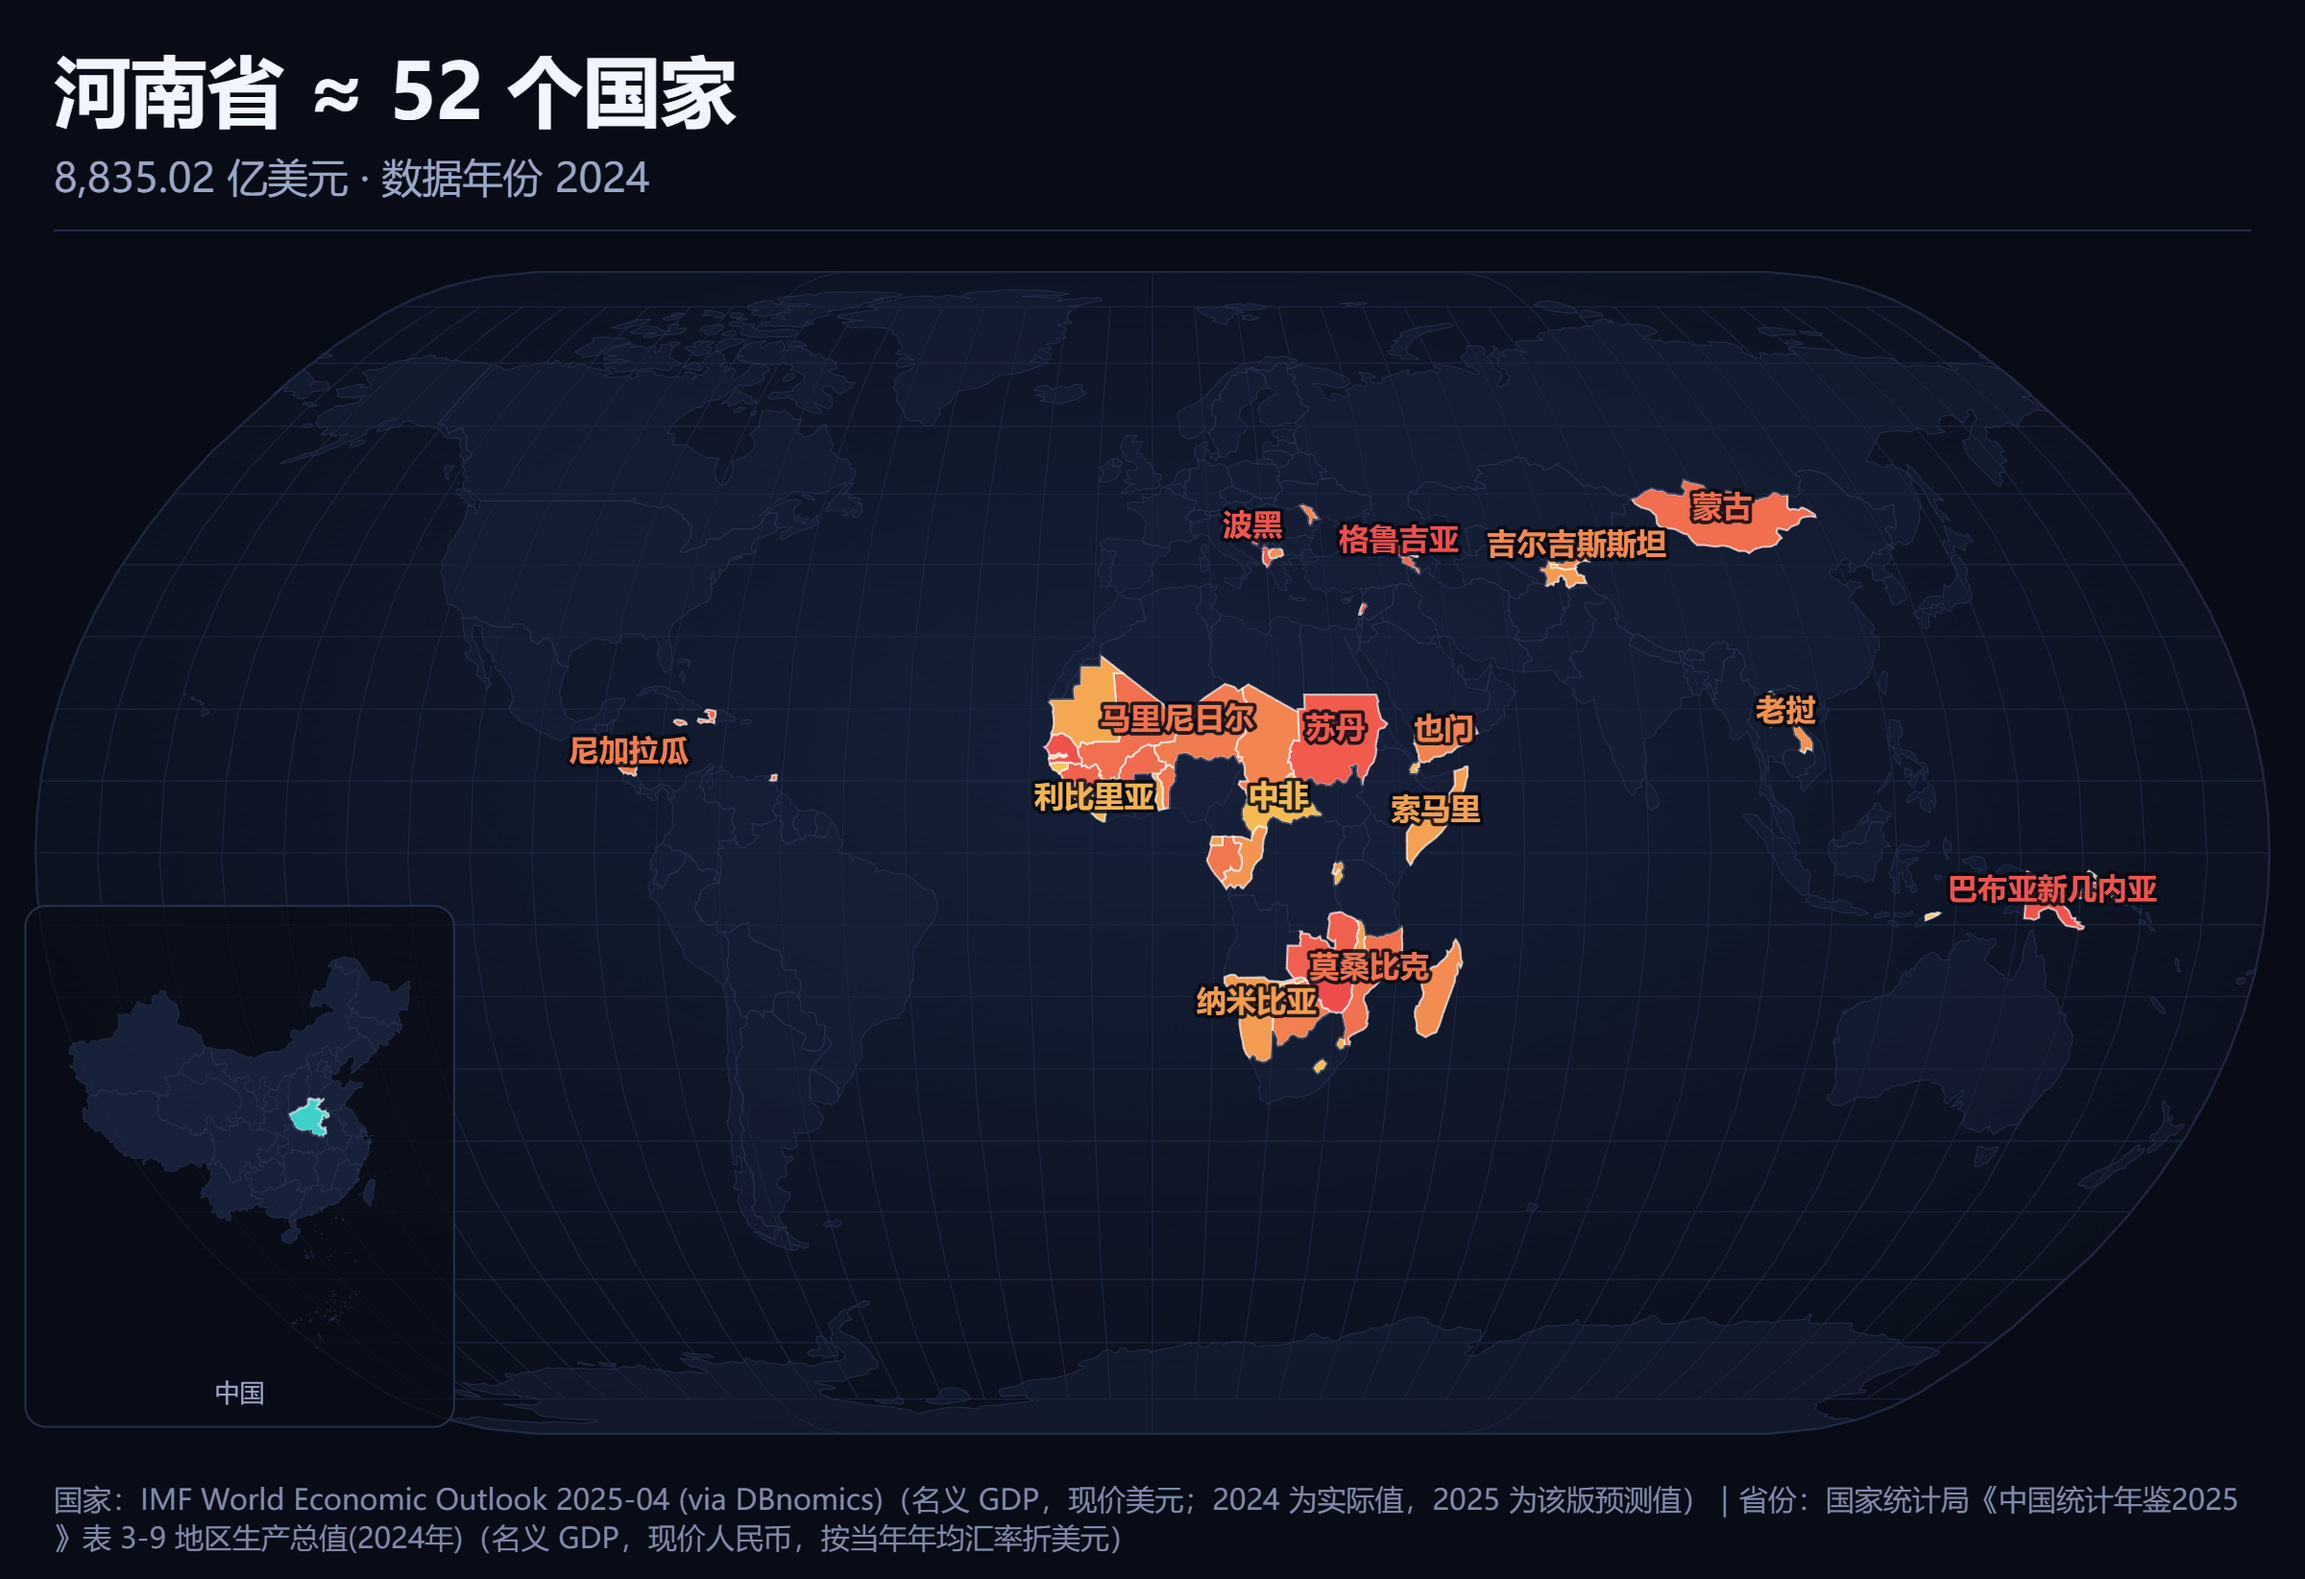
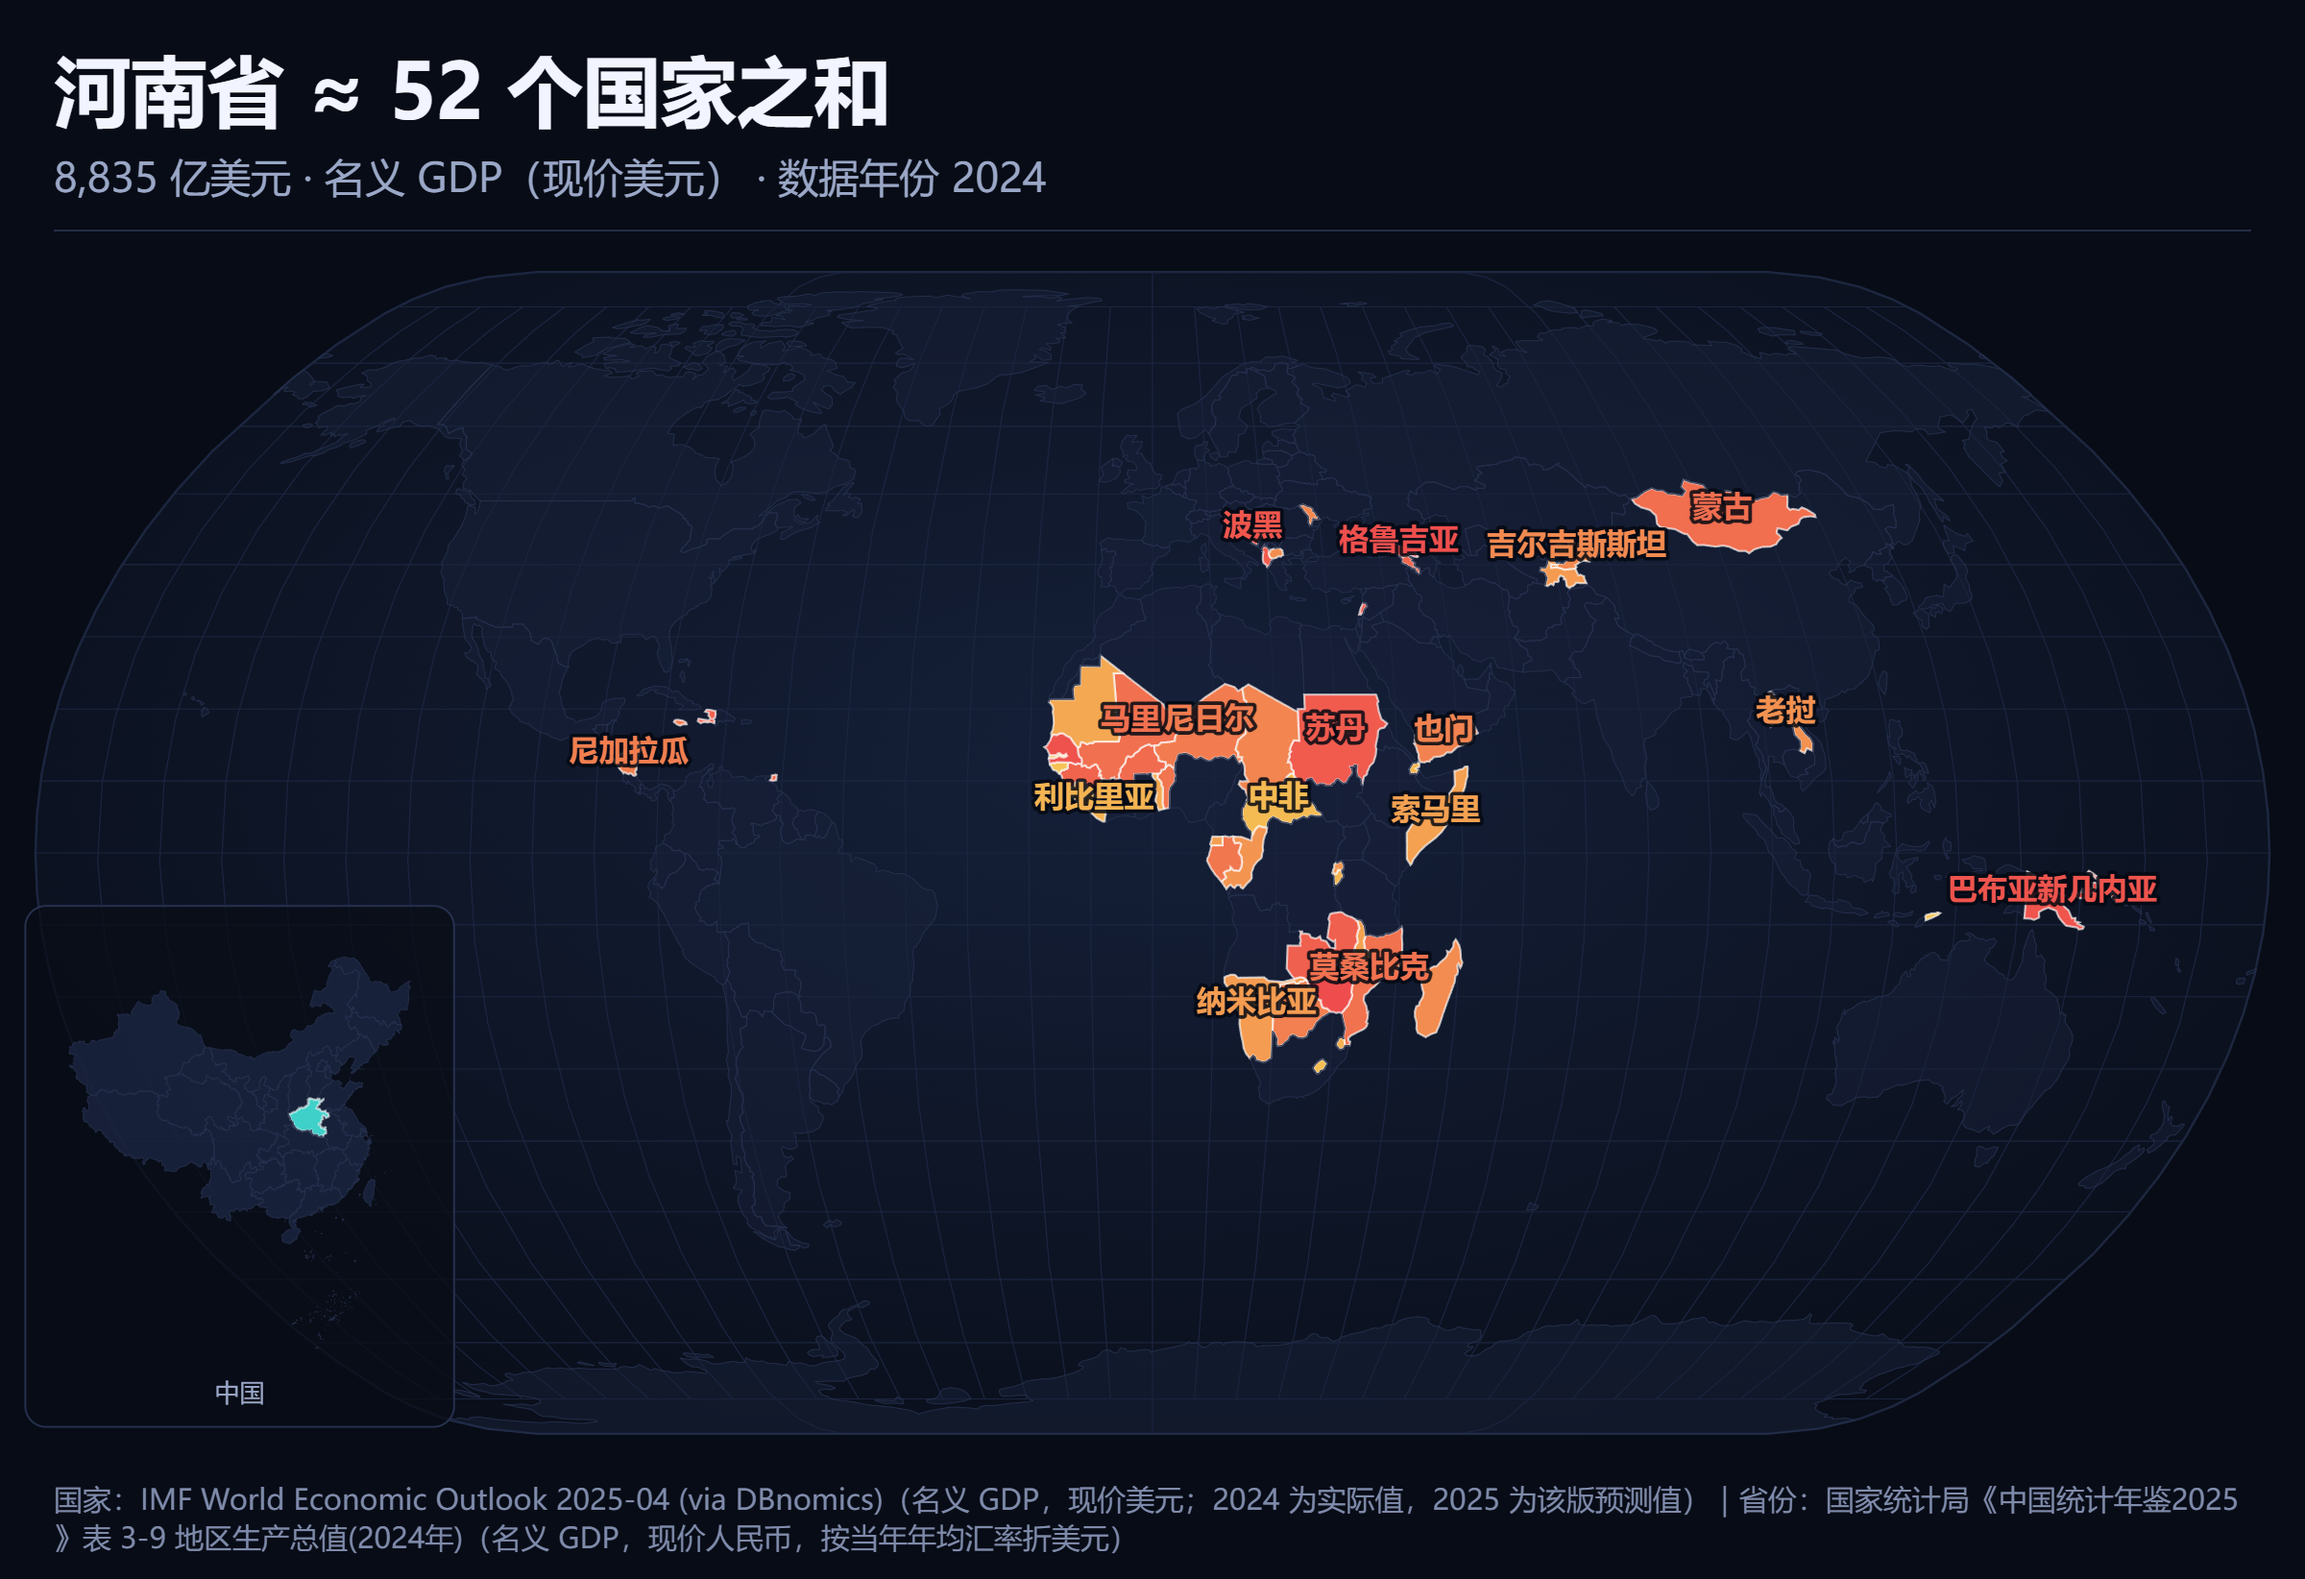
docs: describe the metric based comparison and refresh previews

Changed region(s): [[0.3125, 0.031, 0.4688, 0.1241], [0.0625, 0.0931, 0.3125, 0.1241]]

diff --git a/README.md b/README.md
@@ -10,10 +10,19 @@
 
 | 模式 | 输入 | 输出 |
 | --- | --- | --- |
-| 地方 → 国家 | 选 1~N 个中国省级地区 | 地图上高亮等价的国家集合，并给出「≈ N 个国家」 |
-| 国家 → 地方 | 选 1 个国家 | 中国地图上高亮等价省份组合，并附南海诸岛 |
+| 地方 → 世界 | 选 1~N 个中国省级地区 | 地图上高亮等价的对照对象，并给出「≈ N 个国家」 |
+| 世界 → 地方 | 选 1 个国家 | 中国地图上高亮等价省份组合，并附南海诸岛 |
 
-**四种对照方式**（同一个目标，不同说法）：
+**四个指标**（同一个地方，可以比不同的东西）：
+
+| 指标 | 河南省的结果 | 广东省的结果 |
+| --- | --- | --- |
+| 总 GDP | ≈ 52 个国家之和（超出 1.4%） | ≈ 韩国 + 哥斯达黎加 + 冈比亚 |
+| 人均 GDP | ≈ 格鲁吉亚（9,141 美元/人） | ≈ 土耳其（15,463 美元/人） |
+| 面积 | ≈ 突尼斯（16.4 万 km²） | ≈ 柬埔寨 + 巴林 |
+| 人口 | ≈ 越南（1.01 亿人） | ≈ 菲律宾 + 尼泊尔 |
+
+人均 GDP 不可累加，所以只跟单个对象比；总量、面积、人口可以累加，于是有**四种对照方式**：
 
 | 方式 | 规则 | 河南省（8,835 亿美元）的结果 |
 | --- | --- | --- |
@@ -23,11 +32,12 @@
 | 最接近 | 只看单个最接近的对象 | 波兰，+2.8% |
 
 再配合「忽略微型经济体（人口不足 100 万）」开关，可以把图瓦卢、瑙鲁这类微型国家从结果里剔掉。
+结果卡里还会附上彩蛋：参照物在世界上排第几位、这批国家一共住着多少人。
 
-- **2D 世界地图**：Natural Earth 投影，等价国家按累加顺序由暖到暗着色，左下角带中国定位小图
-- **3D 地球**：正射投影球面，自动旋转、可拖动，参照地区与等价国家之间连大圆弧线（被球体背面遮住的部分会断开，不会横穿地球）
+- **2D 世界地图**：Natural Earth 投影，等价对象按累加顺序由暖到暗着色，左下角带中国定位小图
+- **3D 地球**：正射投影球面，自动旋转、可拖动，参照地区与等价对象之间连大圆弧线（被球体背面遮住的部分会断开，不会横穿地球）
 - **搜索**：中文 / 拼音 / 拼音首字母都能搜（`广东` / `guangdong` / `gd`）
-- **分享**：选择状态、��照方式、过滤开关都写进 URL，复制链接即可复现同一张图
+- **分享**：选择状态、指标、对照方式、过滤开关都写进 URL，复制链接即可复现同一张图
 - **导出**：一键导出带标题与数据来源的 PNG（2D / 3D 都支持）
 
 ## 跑起来
@@ -52,7 +62,9 @@ node scripts/acceptance.mjs   # 浏览器级验收（需先起 dev server）
 | 侧 | 来源 | 口径 |
 | --- | --- | --- |
 | 国家 | IMF《世界经济展望》2025 年 4 月版（经 DBnomics 镜像） | 名义 GDP + 人口，现价美元 / 百万人；2024 为实际值，2025 为该版预测值 |
-| 中国省级 | 国家统计局《中国统计年鉴2025》表 3-9《地区生产总值(2024年)》 | 名义 GDP，现价人民币，按当年年均汇率折美元 |
+| 国家面积 | mledoze/countries（Natural Earth 口径 + 修正） | 平方公里 |
+| 中国省级 | 国家统计局《中国统计年鉴2025》表 3-9《地区生产总值(2024年)》 | 名义 GDP + 人均 GDP，现价人民币，按当年年均汇率折美元；人口由「总量 ÷ 人均」反推 |
+| 中国省面积 | DataV.GeoAtlas 边界几何（球面面积换算） | 平方公里，估算值 |
 | 汇率 | World Bank `PA.NUS.FCRF` | 年均官方汇率 |
 | 世界边界 | Natural Earth（经 D3 graph gallery 转换，ISO3 编号） | 台湾并入中国轮廓 |
 | 中国边界 | 阿里云 DataV.GeoAtlas | 34 个省级行政区 + 南海诸岛（符合国内地图合规要求） |
@@ -71,7 +83,8 @@ node scripts/acceptance.mjs   # 浏览器级验收（需先起 dev server）
 - `matchByStrategy(target, pool, strategy)`：把四种口径包成统一入口
 - `closestSingle`：单个最接近的对象
 
-累加是贪心的，所以结果是「一组国家」，不是一个；件数（51 个 / 3 个）正是这个工具想给的那个数字。
+累加是贪心的，所以结果是「一组对象」，不是一个；件数（51 个 / 3 个）正是这个工具想给的那个数字。
+指标定义在 `src/lib/metrics.ts`（数值格式化、标题模板、能不能累加），换指标不用动算法。
 
 ## 技术选型
 
@@ -112,6 +125,7 @@ node scripts/acceptance.mjs   # 浏览器级验收（需先起 dev server）
 - 只做了**名义 GDP（当年价格美元）**。PPP 口径在原始数据里备着，但省级没有同口径的 PPP 源，暂不开放切换
 - 数据年份目前锁定 2024（双方都有官方实绩的最新完整年度）
 - 只有中国省级 + 世界国家；美国州、欧洲 NUTS 暂未接入
+- 省级面积是按边界几何估算的（与官方公布值相差 1% 上下），省级人口由「总量 ÷ 人均」反推
 - 「≈ N 个国家」是贪心累加的结果，不同算法会得到不同但同样合理的组合；四种对照方式就是给这件事的四个口径
 
 ## License

diff --git a/AGENTS.md b/AGENTS.md
@@ -47,6 +47,9 @@
 2. **对照方式有四种，不要合并成一种。** 纯贪心永远给出图瓦卢、瑙鲁那一串微型国家，
    所以另给了「尽量多件 / 尽量打过 / 大件优先 / 最接近」四种口径，
    外加「忽略微型经济体（人口 < 100 万）」开关。默认「尽量打过」。
+2. **指标有四个，不只是 GDP。** 总 GDP / 人均 GDP / 面积 / 人口。
+   人均 GDP 不可累加，只能跟单个对象比（UI 里另外三个口径会置灰）；
+   面积、人口、总量可累加。指标定义集中在 `src/lib/metrics.ts`，加指标不用动算法。
 2. **纯 SVG，不引 WebGL。** 地球用 d3-geo 正射投影实现。曾经用 globe.gl（three.js），
    在受限环境里会把页面渲染进程卡死，且导出要走 canvas，收益远小于代价。
 3. **只用名义 GDP（当年价格美元）。** PPP 在原始数据里备着，但省级没有同口径 PPP 源，
@@ -74,6 +77,8 @@
   一起算进去，质心漂到海上，线就落不到地方上；用 `geo.ts` 的 `featureMainCentroid()`。
 - **国家统计局年鉴表是图片**（`html/C03-09.jpg`），数值是人工读出来的，存在 `data/provincial-gdp-2024.json`；
   换年鉴版本时要重新读数，不要从别处抄。
+- **算面积要用反转绕向后的几何。** 原始 DataV 绕向会被 d3-geo 当成球面补集，
+  算出来是 5 亿 km²（`reverseRings()` 之后才是对的 16.6 万 km²）。
 
 ## 5. 下一步可以做什么
 
